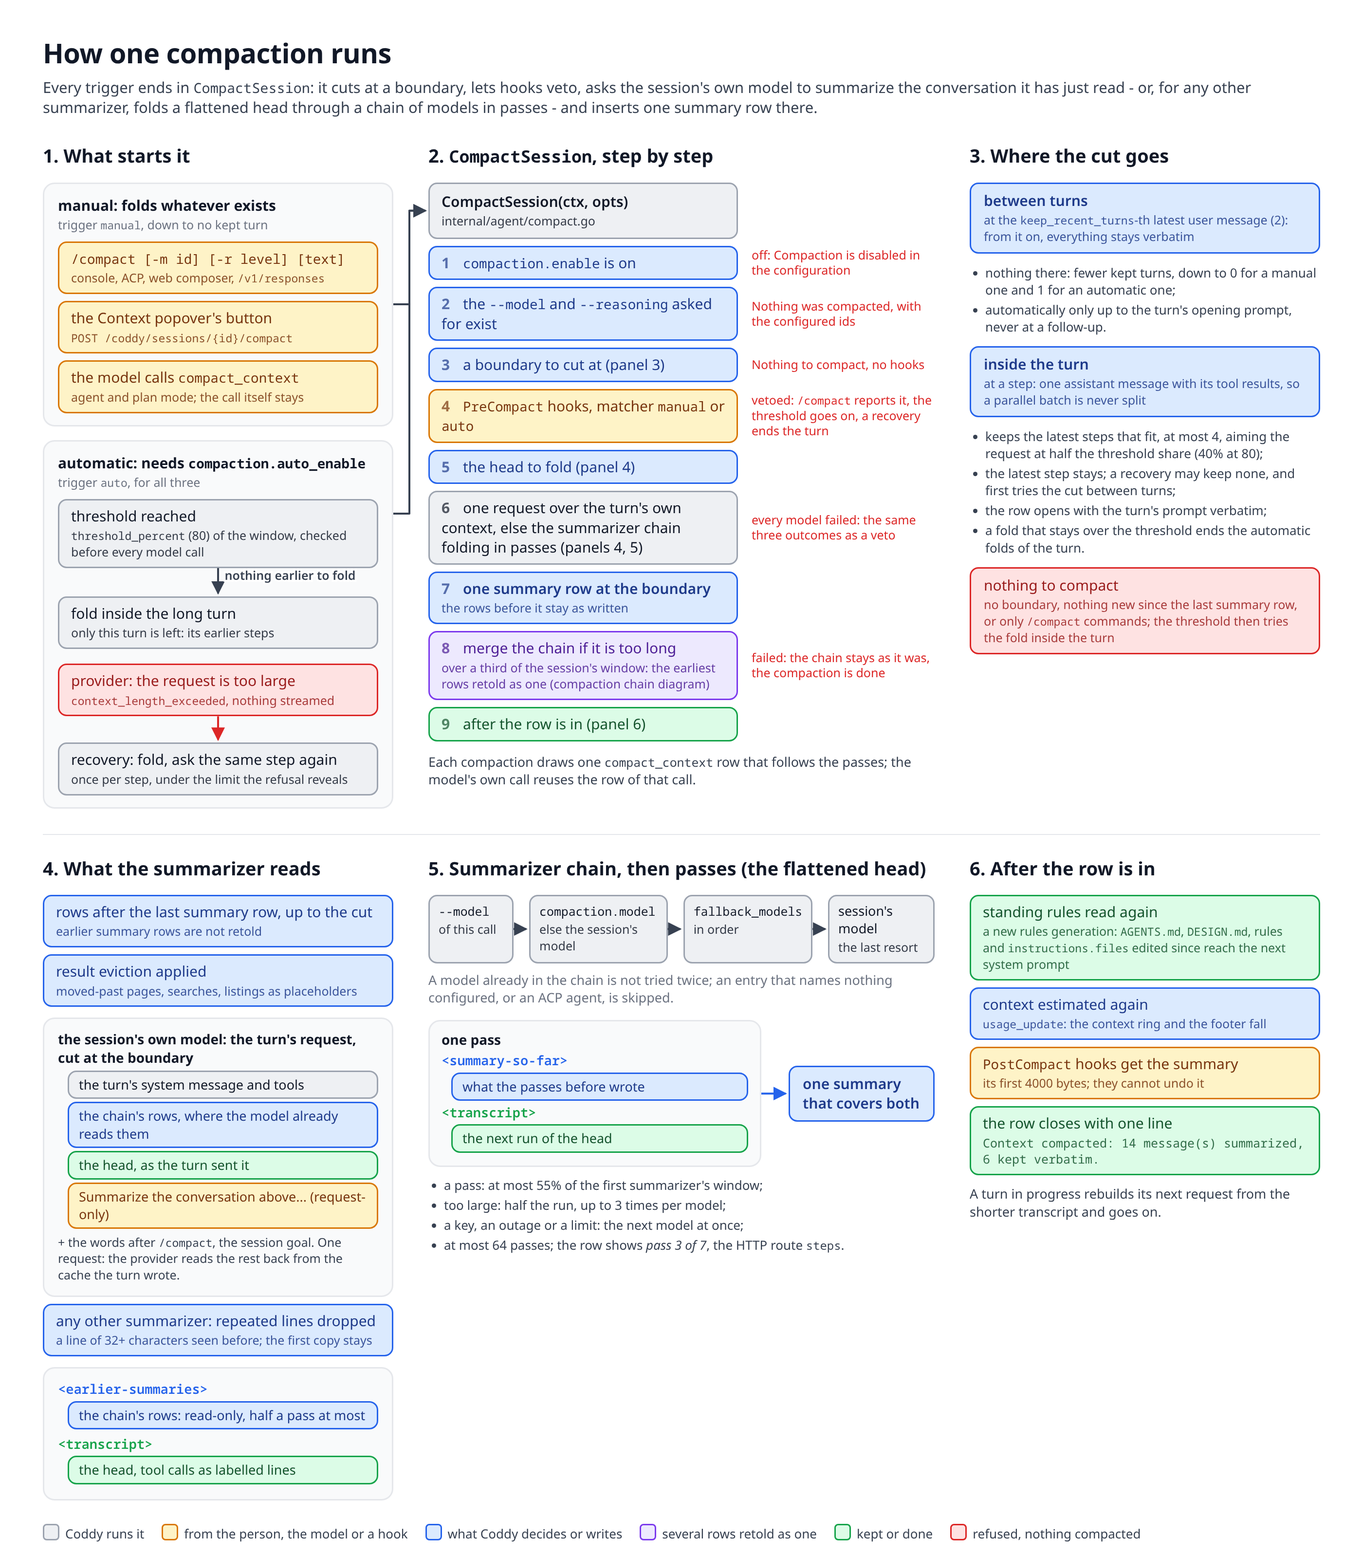
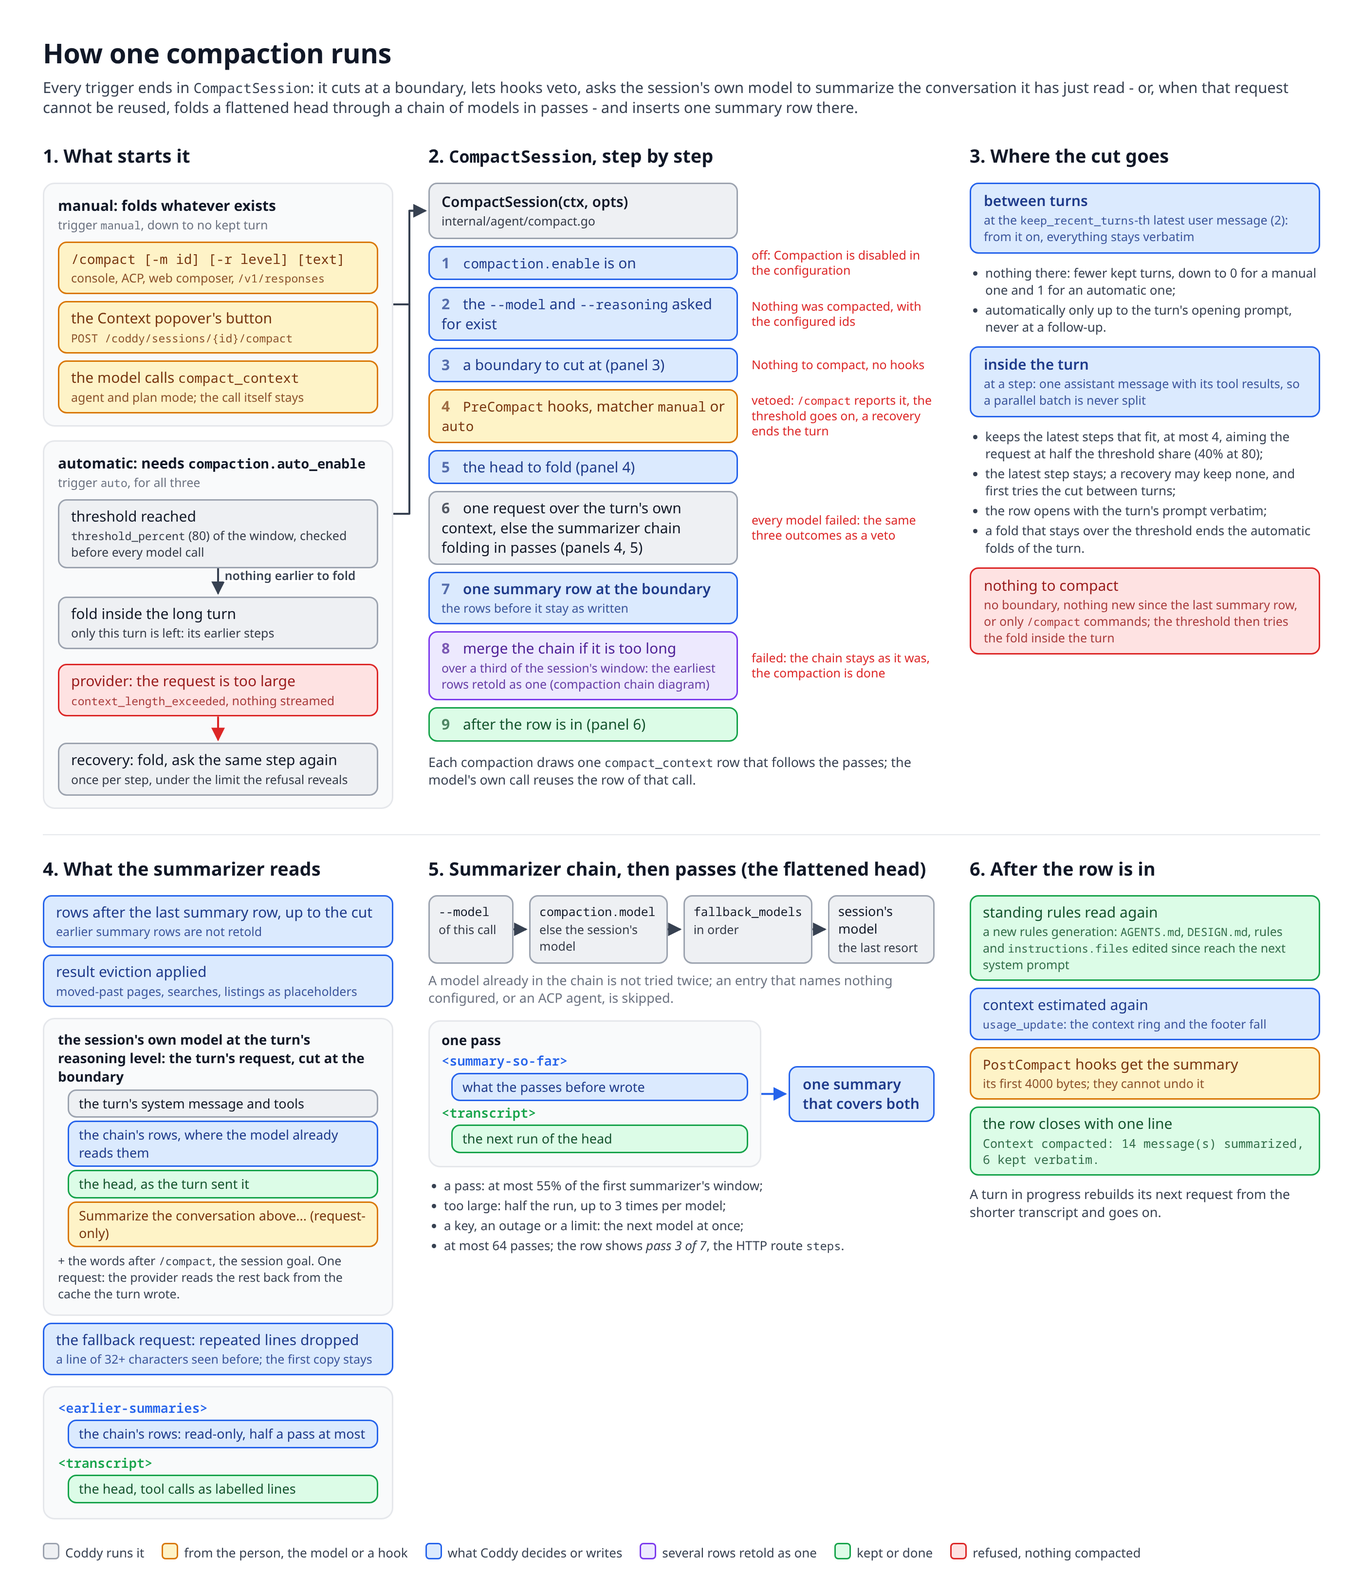
fix(agent): keep the reasoning level a compaction was asked for
Cross-review found that the cached path dropped it: CompactSession resolves
and validates the level the operator named, compactionChain puts it on the
provider of chain[0], and cachedFold built its provider from the turn's own
input instead, where the level is the session's. With compaction.model empty -
the default - the cached path always ran, so /compact -r high, the reasoning
argument of compact_context and the level of POST /coddy/sessions/{id}/compact
all became no-ops, and the route had validated the level first, so nothing
said so. A level that differs from the turn's now sends the fold down the
flattened path, where the chain builds a provider that honours it; the level
is also something a provider keys its cache on, which is the same reason.

The rest of the round:

- a cancelled compaction no longer pays for the flattened fold before
  reporting the cancellation;
- the merge says in the log which request it made, so the e2e harness no
  longer reads the fold's path beside the merge's tokens;
- keep_recent: 0 keeps none, as it always said, and the schema, the pages and
  the dictionaries no longer claim the batch applies to it;
- the listing window of the parent schema description says three steps and up
  to three more;
- the page said a flattened transcript was what every fold sends, named the
  benchmark's baseline as the fold alone, and promised a compaction finishes
  whichever request it made;
[…]

diff --git a/external/ui/src/ui/i18n/messages/ru.ts b/external/ui/src/ui/i18n/messages/ru.ts
@@ -967,11 +967,11 @@ export const messagesRu: Record<string, string> = {
   "settings.schema.compaction.result_eviction.keep_recent.label":
     "Сохранять последние результаты",
   "settings.schema.compaction.result_eviction.keep_recent.desc":
-    "Сколько самых свежих результатов read и grep остаются целыми как рабочее окно, не меньше этого числа (по умолчанию 2 - достаточно для одновременных read и grep; 0 - не сохранять ничего). Из окна они уходят по четыре, поэтому пока набирается следующая порция, в нём остаётся до трёх лишних.",
+    "Наименьшее число самых свежих результатов read и grep, которые остаются целыми как рабочее окно (по умолчанию 2 - достаточно для одновременных read и grep; 0 - не сохранять ничего). Если значение больше нуля, они уходят из окна по четыре, поэтому пока набирается следующая порция, в нём остаётся до трёх лишних.",
   "settings.schema.compaction.result_eviction.min_result_bytes.label":
     "Мин. размер результата, байт",
   "settings.schema.compaction.result_eviction.min_result_bytes.desc":
-    "Результаты этого размера и меньше никогда не вытесняются (по умолчанию 2000; 0 — кандидат любой результат).",
+    "Результаты этого размера и меньше никогда не вытесняются (по умолчанию 2000; 0 - кандидат любой результат).",
   "settings.schema.compaction.fallback_models.label":
     "Резервные модели суммаризации",
   "settings.schema.compaction.fallback_models.desc":

diff --git a/docs/assets/diagrams/compaction-flow.html b/docs/assets/diagrams/compaction-flow.html
@@ -98,8 +98,8 @@
     <h1>How one compaction runs</h1>
     <p class="lead">
       Every trigger ends in <code>CompactSession</code>: it cuts at a boundary, lets hooks veto, asks the session's own
-      model to summarize the conversation it has just read - or, for any other summarizer, folds a flattened head
-      through a chain of models in passes - and inserts one summary row there.
+      model to summarize the conversation it has just read - or, when that request cannot be reused, folds a flattened
+      head through a chain of models in passes - and inserts one summary row there.
     </p>
 
     <div class="cols grid3">
@@ -234,7 +234,7 @@
             <small>moved-past pages, searches, listings as placeholders</small>
           </div>
           <div class="panel req" style="margin-top: 4px">
-            <div class="title" style="font-size: 14px">the session's own model: the turn's request, cut at the boundary</div>
+            <div class="title" style="font-size: 14px">the session's own model at the turn's reasoning level: the turn's request, cut at the boundary</div>
             <div class="box core">the turn's system message and tools</div>
             <div class="box blue">the chain's rows, where the model already reads them</div>
             <div class="box green">the head, as the turn sent it</div>
@@ -245,7 +245,7 @@
             </p>
           </div>
           <div class="box blue">
-            any other summarizer: repeated lines dropped
+            the fallback request: repeated lines dropped
             <small>a line of 32+ characters seen before; the first copy stays</small>
           </div>
           <div class="panel req" style="margin-top: 4px">

diff --git a/external/ui/src/ui/i18n/messages/en.ts b/external/ui/src/ui/i18n/messages/en.ts
@@ -937,7 +937,7 @@ export const messagesEn: Record<string, string> = {
   "settings.schema.compaction.result_eviction.keep_recent.label":
     "Keep recent results",
   "settings.schema.compaction.result_eviction.keep_recent.desc":
-    "The fewest most recent read and grep results that stay intact as a working window (default 2 - enough to hold a read and a grep at once; 0 keeps none). They leave the window four at a time, so up to three more stay while the next batch fills.",
+    "The fewest most recent read and grep results that stay intact as a working window (default 2 - enough to hold a read and a grep at once; 0 keeps none). Above zero they leave the window four at a time, so up to three more stay while the next batch fills.",
   "settings.schema.compaction.result_eviction.min_result_bytes.label":
     "Min result bytes",
   "settings.schema.compaction.result_eviction.min_result_bytes.desc":

diff --git a/docs/assets/diagrams/compaction-chain.html b/docs/assets/diagrams/compaction-chain.html
@@ -131,7 +131,8 @@
           q6 and a6 stay verbatim (<code>keep_recent_turns</code>).
         </p>
         <p class="note" style="margin: 0 0 8px">
-          Another summarizer, or a head that is not the head of what the turn sends, gets the older request instead:
+          Another summarizer, another reasoning level, or a head that is not the head of what the turn sends, gets the
+          older request instead:
           its own system prompt, the earlier blocks under <code>&lt;earlier-summaries&gt;</code> and the head flattened
           under <code>&lt;transcript&gt;</code>, in as many passes as it takes.
         </p>

diff --git a/internal/agent/bdd_prompt_cache_compaction_test.go b/internal/agent/bdd_prompt_cache_compaction_test.go
@@ -69,6 +69,9 @@ type pccState struct {
 	// foldsBefore is how many summarization calls had been made before the
 	// latest `/compact`, so a scenario can name the first and the second.
 	foldsBefore []int
+	// turnsBefore is how many requests the turns had streamed before each of
+	// those compactions: the last of them is the one the fold repeats.
+	turnsBefore []int
 }
 
 func (s *pccState) close() {
@@ -94,7 +97,7 @@ func (s *pccState) tempDir() (string, error) {
 func (s *pccState) build(summarizer string, tune func(*config.Config)) error {
 	s.close()
 	s.provider = &pccProvider{}
-	s.foldsBefore = nil
+	s.foldsBefore, s.turnsBefore = nil, nil
 	var err error
 	if s.cwd, err = s.tempDir(); err != nil {
 		return err
@@ -179,6 +182,7 @@ func (s *pccState) worksThroughAFewTurns() error {
 
 func (s *pccState) operatorCompacts() error {
 	s.foldsBefore = append(s.foldsBefore, len(s.provider.folds))
+	s.turnsBefore = append(s.turnsBefore, len(s.provider.turns))
 	if _, err := s.ag.Run(context.Background(), []acp.ContentBlock{{Type: "text", Text: "/compact"}}); err != nil {
 		return err
 	}
@@ -223,15 +227,14 @@ func (s *pccState) fold(n int) ([]llm.Message, []llm.ToolDefinition, error) {
 // turnBefore is the last streamed request made before summarization request n,
 // without its turn context block: the bytes the provider cached last.
 func (s *pccState) turnBefore(n int) ([]llm.Message, error) {
-	if len(s.foldsBefore) < n {
-		return nil, fmt.Errorf("the run compacted %d time(s), wanted at least %d", len(s.foldsBefore), n)
+	if len(s.turnsBefore) < n {
+		return nil, fmt.Errorf("the run compacted %d time(s), wanted at least %d", len(s.turnsBefore), n)
 	}
-	if len(s.provider.turns) == 0 {
-		return nil, fmt.Errorf("the run streamed no request")
+	streamed := s.turnsBefore[n-1]
+	if streamed == 0 {
+		return nil, fmt.Errorf("compaction %d followed no streamed request", n)
 	}
-	// Every turn of these scenarios runs before its compaction, so the latest
-	// streamed request at the time of fold n is the last one of the run so far.
-	return withoutTurnContext(s.provider.turns[len(s.provider.turns)-1]), nil
+	return withoutTurnContext(s.provider.turns[streamed-1]), nil
 }
 
 // foldRepeatsTheTurn holds summarization request n to the bytes the provider
@@ -248,7 +251,11 @@ func (s *pccState) foldRepeatsTheTurn(n int) error {
 	if err != nil {
 		return err
 	}
-	shared := min(len(req)-1, len(prev))
+	if len(req)-1 > len(prev) {
+		return fmt.Errorf("summarization request %d carries %d message(s) in front of its instruction, more than the %d the turn's last request held: the extra ones were never sent",
+			n, len(req)-1, len(prev))
+	}
+	shared := len(req) - 1
 	if shared < 3 {
 		return fmt.Errorf("summarization request %d shares %d message(s) with the turn's last request: too few to have repeated anything", n, shared)
 	}
@@ -330,10 +337,10 @@ func (s *pccState) foldCarriesTheTurnsTools(n int) error {
 	if err != nil {
 		return err
 	}
-	if len(s.provider.turnTools) == 0 {
-		return fmt.Errorf("the run streamed no request")
+	if len(s.turnsBefore) < n || s.turnsBefore[n-1] == 0 {
+		return fmt.Errorf("compaction %d followed no streamed request", n)
 	}
-	want := s.provider.turnTools[len(s.provider.turnTools)-1]
+	want := s.provider.turnTools[s.turnsBefore[n-1]-1]
 	if len(want) == 0 {
 		return fmt.Errorf("the turn carried no tool definitions: nothing to compare")
 	}

diff --git a/internal/agent/compact_cached.go b/internal/agent/compact_cached.go
@@ -95,6 +95,12 @@ type cachedFoldSpec struct {
 	// What it reads is a run of summaries and nothing else, and Instructions
 	// already says what to make of them.
 	Merge bool
+	// Reasoning is the level this compaction was asked to run at, empty for
+	// the model's own. A level the operator named is a level the summary has
+	// to be written at, and it is also something a provider keys its cache on,
+	// so one that differs from what the turn ran at sends the fold down the
+	// flattened path, where the chain builds a provider for it.
+	Reasoning string
 }
 
 // cachedCompactionInstruction is the summarization brief as a message that
@@ -231,6 +237,11 @@ func (a *Agent) cachedFold(ctx context.Context, chain []compactionCandidate, spe
 	if !held || send.Model == "" || send.Model != chain[0].modelID || send.System.Content == "" {
 		return "", "", false
 	}
+	// A reasoning level asked for by /compact, the tool or the HTTP route is
+	// honoured by the chain's own provider, not by the turn's.
+	if spec.Reasoning != "" && spec.Reasoning != send.Input.ReasoningEffort {
+		return "", "", false
+	}
 	req := a.cachedCompactionRequest(send, spec)
 	if req == nil {
 		return "", "", false
@@ -261,8 +272,8 @@ func (a *Agent) cachedFold(ctx context.Context, chain []compactionCandidate, spe
 	}
 	out := strings.TrimSpace(resp.Content)
 	if out == "" || len(resp.ToolCalls) > 0 {
-		a.log.Info("the summarizer answered the conversation with a tool call rather than a summary; folding the transcript instead",
-			"session", a.state.GetID(), "model", send.Model, "toolCalls", len(resp.ToolCalls))
+		a.log.Info("the summarizer answered the conversation with no summary; folding the transcript instead",
+			"session", a.state.GetID(), "model", send.Model, "toolCalls", len(resp.ToolCalls), "empty", out == "")
 		return "", "", false
 	}
 	return out, send.Model, true

diff --git a/internal/agent/prompt_cache_compaction_test.go b/internal/agent/prompt_cache_compaction_test.go
@@ -722,3 +722,34 @@ func TestPromptCacheEvictionWindowLeavesInBatches(t *testing.T) {
 		}
 	}
 }
+
+// A reasoning level the operator asked for is honoured by the chain's own
+// provider, not by the turn's, so a fold that has to run at one goes down the
+// flattened path. The level is also something a provider keys its cache on,
+// which is the other half of the same reason.
+func TestPromptCacheCompactionFallsBackWhenAReasoningLevelIsAskedFor(t *testing.T) {
+	levels := []string{"low", "medium", "high"}
+	withLevels := func(ag *Agent) { ag.cfg.Models[0].ReasoningLevels = &levels }
+
+	st := seededCompactState(t, 4)
+	pcRecordTurnSend(st, "fake/model")
+	keep := 1
+	provider := &compactCannedProvider{t: t, summary: "SUMMARY"}
+	ag := compactTestAgent(t, st, config.Compaction{KeepRecentTurns: &keep}, provider)
+	withLevels(ag)
+	if _, err := ag.CompactSession(context.Background(), CompactOptions{Reasoning: "high"}); err != nil {
+		t.Fatalf("the compaction failed: %v", err)
+	}
+	if len(provider.requests) != 1 {
+		t.Fatalf("the summarizer was called %d times, want once", len(provider.requests))
+	}
+	if req := provider.requests[0]; len(req) != 2 || !strings.Contains(req[1].Content, "<transcript>") {
+		t.Fatalf("a compaction asked to reason sent the turn's own context: %d message(s)", len(req))
+	}
+
+	// The same session with no level asked for still reads the cache.
+	plain := pcCompactOnce(t, 4, true, withLevels)
+	if len(plain) != 1 || plain[0][0].Content != pcTurnSystem {
+		t.Fatalf("a compaction with no level asked for did not repeat the turn's request: %d message(s)", len(plain[0]))
+	}
+}

diff --git a/internal/agent/compact_merge.go b/internal/agent/compact_merge.go
@@ -126,7 +126,7 @@ func withChainMergeInstructions(instructions string) string {
 // mergeChain merges the earliest rows of the chain when it has outgrown its
 // share of the session's window (chainMergeCount), and reports how many rows
 // the merge retold; 0 with a nil error when no merge was due.
-func (a *Agent) mergeChain(ctx context.Context, chain []compactionCandidate, instructions string, progress compactionProgress) (int, error) {
+func (a *Agent) mergeChain(ctx context.Context, chain []compactionCandidate, instructions, reasoning string, progress compactionProgress) (int, error) {
 	msgs := a.state.GetMessages()
 	window, _ := a.contextWindow()
 	k, ok := chainMergeCount(msgs, window)
@@ -163,15 +163,22 @@ func (a *Agent) mergeChain(ctx context.Context, chain []compactionCandidate, ins
 			Cut:          k,
 			Instructions: instructions,
 			Merge:        true,
+			Reasoning:    reasoning,
 		})
 	}
 	if !cached {
+		if err := ctx.Err(); err != nil {
+			return 0, err
+		}
 		var err error
 		summary, modelID, _, err = a.foldFlattened(ctx, chain, nil, rows, instructions, progress)
 		if err != nil {
 			return 0, err
 		}
 	}
+	// The merge makes a request of its own, and it is the expensive one: an
+	// operator reading the log sees which of the two it was.
+	a.compactionOutcomeLog(cached, modelID, 1)
 	row := session.NewCompactionSummaryMessage(summary, modelID)
 	if prompt != "" {
 		row = session.NewInTurnCompactionSummaryMessage(prompt, summary, modelID)

diff --git a/internal/agent/compact.go b/internal/agent/compact.go
@@ -298,9 +298,17 @@ func (a *Agent) CompactSession(ctx context.Context, opts CompactOptions) (*Compa
 		Cut:              splitIdx - viewOffset,
 		Instructions:     instructions,
 		EarlierSummaries: len(blocks) > 0,
+		Reasoning:        reasoning,
 	})
 	steps := 1
 	if !cached {
+		// A cancelled call answers like any other that did not produce a
+		// summary, and the flattened fold would pay for the dedupe and one more
+		// provider call before it reported the same cancellation.
+		if err := ctx.Err(); err != nil {
+			row.failed(err)
+			return nil, err
+		}
 		summary, modelID, steps, err = a.foldFlattened(ctx, chain, visible[:len(blocks)], head, instructions, row.step)
 		if err != nil {
 			row.failed(err)
@@ -321,7 +329,7 @@ func (a *Agent) CompactSession(ctx context.Context, opts CompactOptions) (*Compa
 	// The chain grows by a row per compaction; one that outgrew its share of the
 	// window has its earliest rows retold as one. A merge that fails leaves the
 	// chain as it was and the compaction done.
-	merged, mergeErr := a.mergeChain(ctx, chain, mergeInstructions, row.step)
+	merged, mergeErr := a.mergeChain(ctx, chain, mergeInstructions, reasoning, row.step)
 	if mergeErr != nil {
 		a.log.Warn("compaction could not merge the earliest summaries; the chain stays as it is", "error", mergeErr)
 	}

diff --git a/internal/agent/result_eviction.go b/internal/agent/result_eviction.go
@@ -606,6 +606,9 @@ func writeTargets(toolName, argsJSON, cwd string) []string {
 func recentCandidateWindow(reads []evReadResult, greps []evGrepResult, keepRecent, batch int) map[int]struct{} {
 	window := make(map[int]struct{})
 	if keepRecent <= 0 {
+		// keep_recent: 0 keeps none, which is what the setting says and what an
+		// operator who set it asked for: there is no working window to let a
+		// batch leave from.
 		return window
 	}
 	idx := make([]int, 0, len(reads)+len(greps))
@@ -633,7 +636,8 @@ func recentCandidateWindow(reads []evReadResult, greps []evGrepResult, keepRecen
 // stays whole.
 //
 // The window never holds fewer than keepRecent, and it holds more until a whole
-// batch is ready to leave. Collapsing the one candidate that falls out at every
+// batch is ready to leave. A keepRecent of zero has no window to batch from and
+// does not reach this (recentCandidateWindow). Collapsing the one candidate that falls out at every
 // step rewrites the replayed history at every step, and a provider caches a
 // request by its prefix, so each collapse costs the cached copy of everything
 // behind it - the whole working window the model is reasoning in, measured at

diff --git a/internal/agent/compact_fold.go b/internal/agent/compact_fold.go
@@ -180,9 +180,6 @@ func elideToTokensMarked(s string, tokens int, marker string) string {
 	return out
 }
 
-// foldCompactionHead summarizes head into one summary, in as many passes as
-// the summarizer's window needs. It reports every pass through progress before
-// making the call, so a compaction that takes a while says what it is doing.
 // foldFlattened folds head as a transcript of its own: the repeated lines
 // dropped, the summary rows written before it rendered ahead of it, and the
 // whole thing sized against the summarizer's window. It is what a compaction
@@ -223,6 +220,9 @@ func (a *Agent) foldFlattened(
 	return a.foldCompactionHead(ctx, chain, earlier, head, instructions, budget, progress)
 }
 
+// foldCompactionHead summarizes head into one summary, in as many passes as
+// the summarizer's window needs. It reports every pass through progress before
+// making the call, so a compaction that takes a while says what it is doing.
 func (a *Agent) foldCompactionHead(
 	ctx context.Context,
 	chain []compactionCandidate,

diff --git a/internal/agent/perf_test.go b/internal/agent/perf_test.go
@@ -604,8 +604,10 @@ func splitAgainstTheCache(reqs [][]llm.Message, folds int) cacheSplit {
 			}
 		}
 		// A request that changed a message the one before it carried, rather
-		// than only adding after it, threw that cached prefix away.
-		if i > 0 && shareWith(bodies[i], bodies[i-1]) < len(bodies[i-1]) {
+		// than only adding after it, threw that cached prefix away. A shorter
+		// request is not one of them: a fold is the turn's prefix cut at the
+		// boundary, and the turn after a compaction starts from the summary row.
+		if i > 0 && len(bodies[i]) >= len(bodies[i-1]) && shareWith(bodies[i], bodies[i-1]) < len(bodies[i-1]) {
 			out.rewrites++
 		}
 		for j, m := range req {
